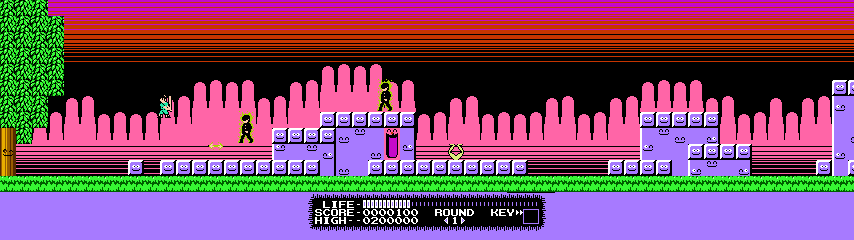
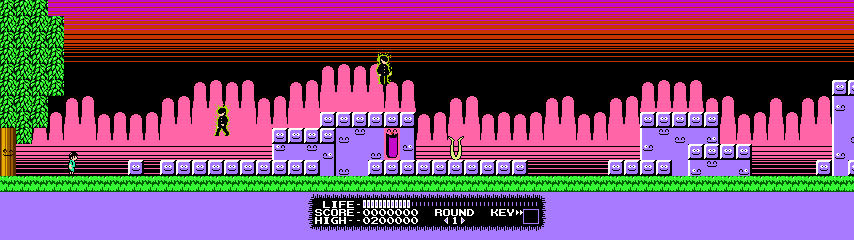
docs: show Prototype Restoration in the screenshot gallery

diff --git a/README.md b/README.md
@@ -25,13 +25,14 @@ Enemies appear across the wider view, and the stage camera stops at level edges.
 The life bar stays centered below the action, and boss rooms keep their centered
 presentation.
 
-![Round 1 in widescreen](docs/images/round1-widescreen.png)
+![Round 1 with Prototype Restoration and widescreen](docs/images/round1-widescreen.png)
 
-![Round 3 in widescreen](docs/images/round3-widescreen.png)
+![Round 3 with Prototype Restoration and widescreen](docs/images/round3-widescreen.png)
 
-![Round 8 in widescreen](docs/images/round8-widescreen.png)
+![Round 8 with Prototype Restoration and widescreen](docs/images/round8-widescreen.png)
 
-*Actual gameplay captures from this release.*
+*Actual gameplay with Adaptive Widescreen and Cubivore10's optional
+Prototype Restoration enabled.*
 
 ## Cheats and restoration
 
@@ -45,7 +46,9 @@ game; it works with widescreen, save states and rewind. Your ROM file stays
 unchanged. [Original patch and author credit](https://www.romhacking.net/hacks/1516/)
 ([current archive](https://www.romhack.ing/hacks/1516/)).
 
-![Cubivore10's restored title screen](docs/images/prototype-restoration-title.png)
+| Restored title screen | Restored plant boss |
+| :---: | :---: |
+| ![Cubivore10's restored title screen](docs/images/prototype-restoration-title.png) | ![Cubivore10's restored plant boss](docs/images/prototype-restoration-plant.png) |
 
 ## Controls and progress
 
